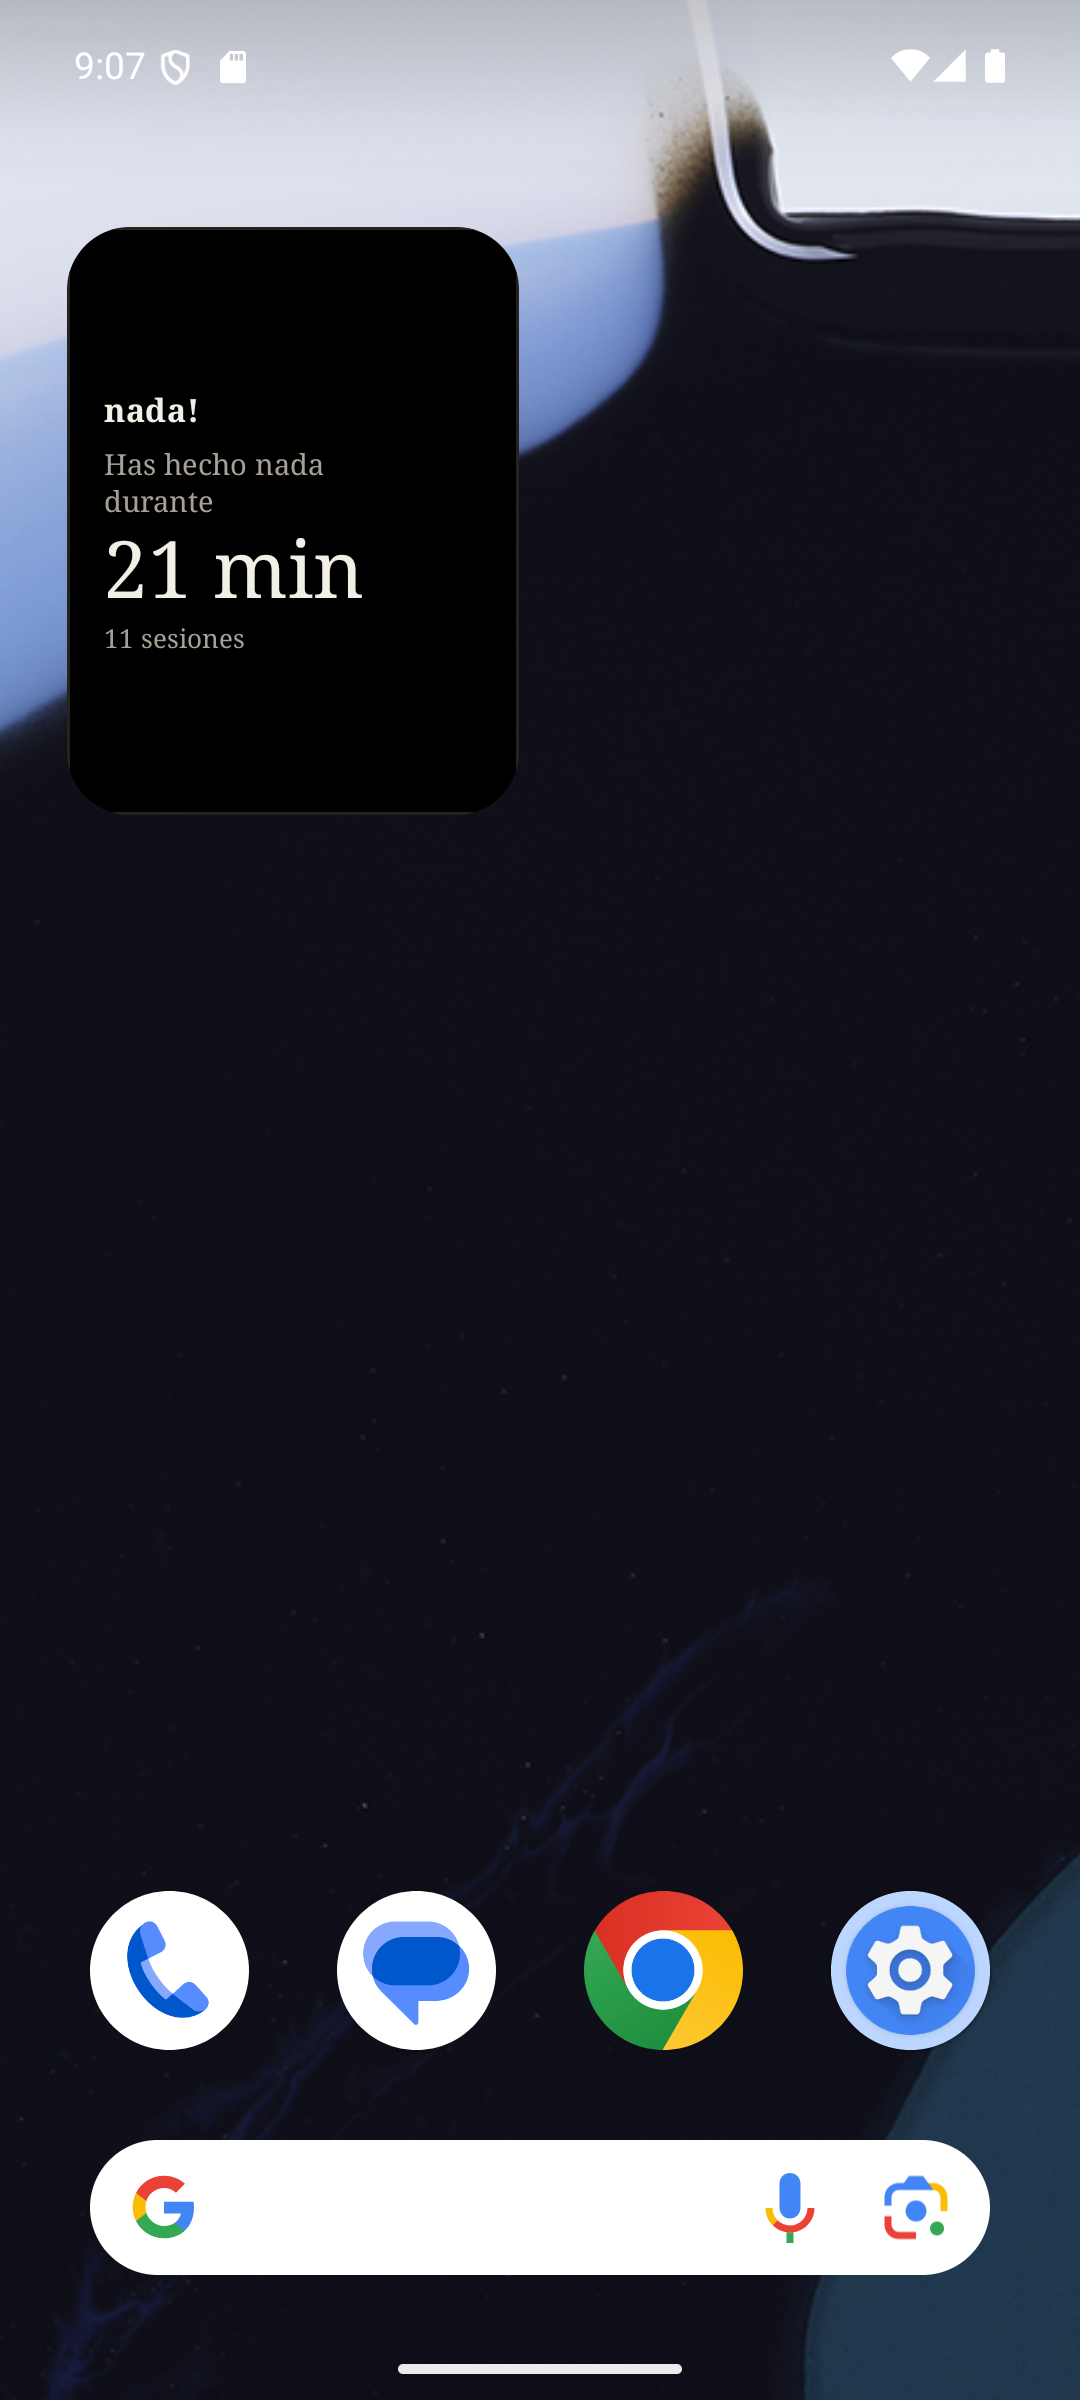
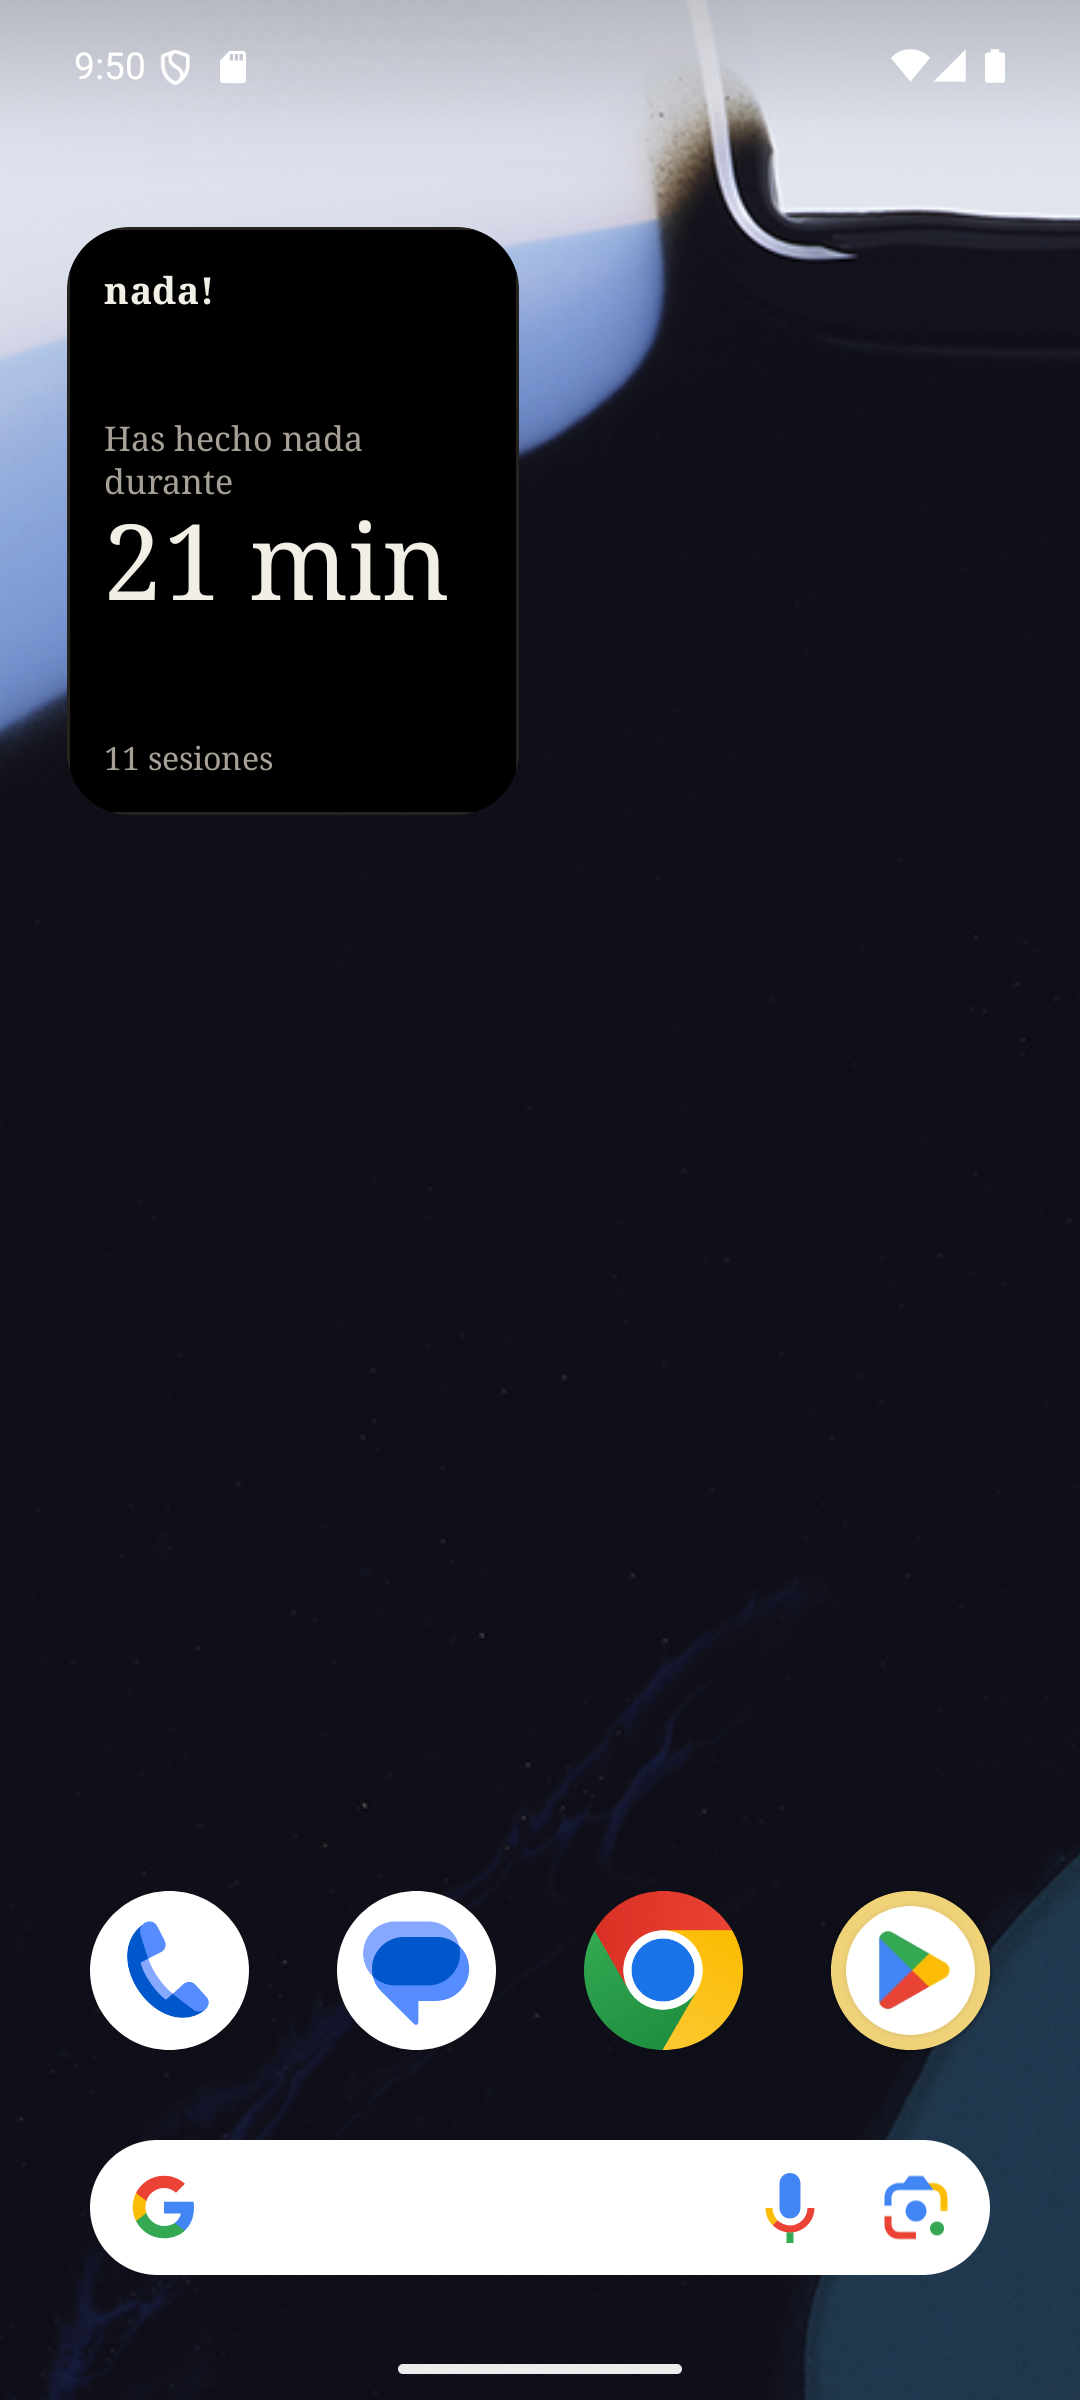
Fill the 2x2 widget cell with larger type and distributed layout

diff --git a/tool/make_widget_preview.py b/tool/make_widget_preview.py
@@ -1,4 +1,4 @@
-"""Generate the widget preview image used by older launchers and docs."""
+"""Generate the widget preview image used by older launchers and store art."""
 
 from pathlib import Path
 
@@ -31,23 +31,22 @@ def make(theme: str, out: Path) -> None:
     draw = ImageDraw.Draw(image)
     draw.rectangle((1, 1, size - 2, size - 2), outline=edge, width=2)
 
-    padding = 46
-    wordmark = ImageFont.truetype(str(FONT_TEXT_SEMI), 40)
-    phrase = ImageFont.truetype(str(FONT_TEXT), 34)
-    phrase_line = ImageFont.truetype(str(FONT_TEXT), 34)
-    time_font = ImageFont.truetype(str(FONT_DISPLAY), 88)
-    sessions = ImageFont.truetype(str(FONT_TEXT), 28)
+    padding = 44
+    wordmark = ImageFont.truetype(str(FONT_TEXT_SEMI), 44)
+    phrase = ImageFont.truetype(str(FONT_TEXT), 36)
+    time_font = ImageFont.truetype(str(FONT_DISPLAY), 122)
+    sessions = ImageFont.truetype(str(FONT_TEXT), 34)
 
-    draw.text((padding, 54), "nada!", font=wordmark, fill=primary)
+    draw.text((padding, 46), "nada!", font=wordmark, fill=primary)
     draw.multiline_text(
-        (padding, 126),
+        (padding, 182),
         "Has hecho nada\ndurante",
         font=phrase,
         fill=secondary,
         spacing=6,
     )
-    draw.text((padding, 242), "3 h 12 min", font=time_font, fill=primary)
-    draw.text((padding, 395), "9 sesiones", font=sessions, fill=secondary)
+    draw.text((padding, 278), "3 h 12 min", font=time_font, fill=primary)
+    draw.text((padding, 430), "9 sesiones", font=sessions, fill=secondary)
 
     out.parent.mkdir(parents=True, exist_ok=True)
     image.convert("RGB").save(out)

diff --git a/tool/make_widget_store.py b/tool/make_widget_store.py
@@ -68,12 +68,6 @@ def main() -> None:
     for index, (card, name) in enumerate(((dark, "negro"), (light, "blanco"))):
         x = left + index * (card.width + gap)
         canvas.alpha_composite(card, (x, top))
-        draw.rounded_rectangle(
-            (x, top, x + card.width - 1, top + card.height - 1),
-            radius=42,
-            outline=EDGE,
-            width=2,
-        )
         draw.text(
             (x + card.width // 2, top + card.height + 42),
             name,
